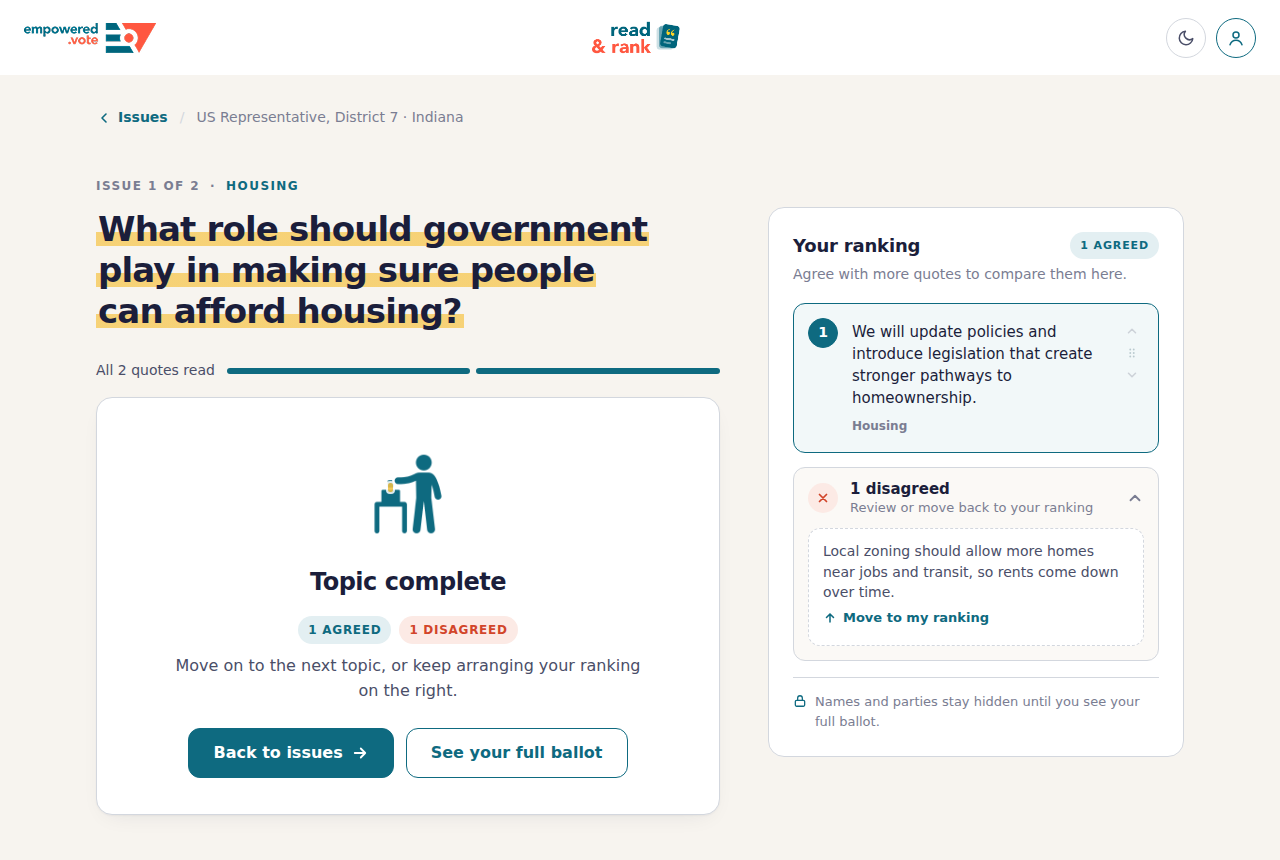
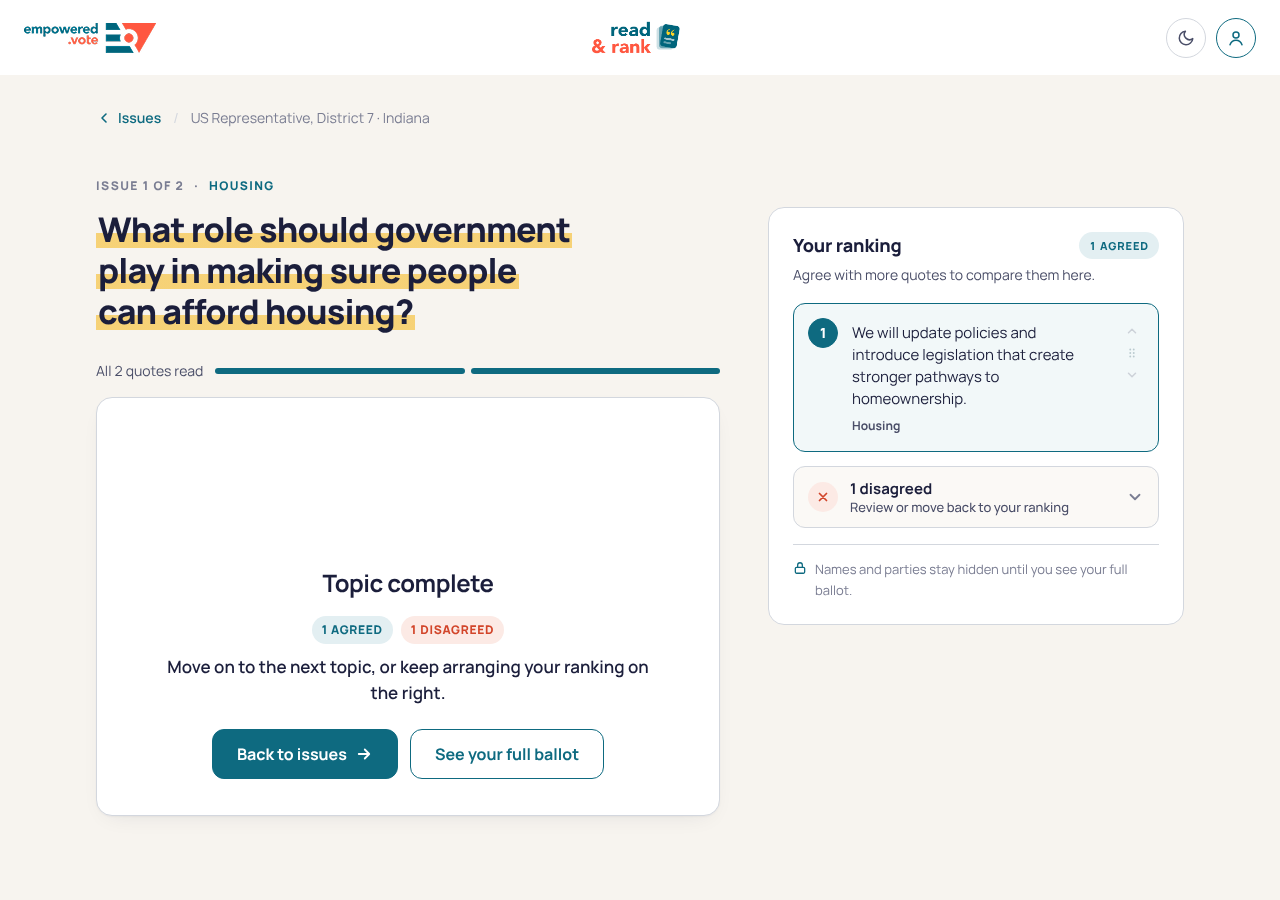
docs: darken Topic complete message and ranking panel helper text
Claude-Session: https://claude.ai/code/session_01DwfCu4GsxXBrSLCryEySUF

diff --git a/docs/design/readrank-ux-redesign/prototype/index.html b/docs/design/readrank-ux-redesign/prototype/index.html
@@ -712,7 +712,7 @@
   #s-read .done-card { padding: 36px; text-align: center; display: grid; justify-items: center; gap: 10px; }
   #s-read .done-icon { width: 56px; height: 56px; border-radius: 50%; display: grid; place-items: center; background: var(--teal-tint); color: var(--teal); }
   #s-read .done-card h2 { margin: 8px 0 0; font-size: 24px; letter-spacing: -.02em; }
-  #s-read .done-card p { margin: 0; color: var(--ink-2); max-width: 30em; }
+  #s-read .done-card p { margin: 0; color: var(--ink); font-size: 17px; font-weight: 600; line-height: 1.5; max-width: 30em; }
   #s-read .done-actions { margin-top: 14px; display: flex; flex-wrap: wrap; justify-content: center; gap: 12px; }
 
   #s-read .btn {
@@ -743,7 +743,7 @@
     padding: 5px 10px; border-radius: 999px; color: var(--teal); background: var(--teal-tint);
     font-variant-numeric: tabular-nums; white-space: nowrap;
   }
-  #s-read .rank .sub { margin: 4px 0 0; font-size: 14px; color: var(--ink-3); }
+  #s-read .rank .sub { margin: 4px 0 0; font-size: 14px; color: var(--ink-2); }
   #s-read .empty {
     margin-top: 18px; padding: 26px 20px; border-radius: 12px;
     border: 1.5px dashed var(--line); text-align: center; color: var(--ink-3); font-size: 14px;
@@ -770,7 +770,7 @@
   }
   #s-read .rank-list li:first-child .pos { background: var(--teal); border-color: var(--teal); color: var(--on-teal); }
   #s-read .rank-text { margin: 4px 0 0; font-size: 15px; line-height: 1.45; }
-  #s-read .rank-tag { display: inline-block; margin-top: 8px; font-size: 12px; font-weight: 700; color: var(--ink-3); }
+  #s-read .rank-tag { display: inline-block; margin-top: 8px; font-size: 12px; font-weight: 700; color: var(--ink-2); }
   #s-read .order { display: grid; gap: 2px; justify-items: center; }
   #s-read .order button {
     width: 28px; height: 26px; border-radius: 8px; border: 0; background: transparent; color: var(--ink-3);
@@ -790,7 +790,7 @@
   #s-read .tray summary::-webkit-details-marker { display: none; }
   #s-read .tray-icon { width: 30px; height: 30px; border-radius: 50%; display: grid; place-items: center; background: var(--coral-tint); color: var(--coral-strong); }
   #s-read .tray-title { font-weight: 700; font-size: 15px; line-height: 1.3; }
-  #s-read .tray-title small { display: block; font-weight: 500; font-size: 13px; color: var(--ink-3); }
+  #s-read .tray-title small { display: block; font-weight: 500; font-size: 13px; color: var(--ink-2); }
   #s-read .chev { color: var(--ink-3); transition: transform .2s ease; }
   #s-read .tray[open] .chev { transform: rotate(180deg); }
   #s-read .tray-list { list-style: none; margin: 0; padding: 0 14px 14px; display: grid; gap: 8px; }

diff --git a/docs/design/readrank-ux-redesign/prototype/read.html b/docs/design/readrank-ux-redesign/prototype/read.html
@@ -199,7 +199,7 @@
   .done-card { padding: 36px; text-align: center; display: grid; justify-items: center; gap: 10px; }
   .done-icon { width: 56px; height: 56px; border-radius: 50%; display: grid; place-items: center; background: var(--teal-tint); color: var(--teal); }
   .done-card h2 { margin: 8px 0 0; font-size: 24px; letter-spacing: -.02em; }
-  .done-card p { margin: 0; color: var(--ink-2); max-width: 30em; }
+  .done-card p { margin: 0; color: var(--ink); font-size: 17px; font-weight: 600; line-height: 1.5; max-width: 30em; }
   .done-actions { margin-top: 14px; display: flex; flex-wrap: wrap; justify-content: center; gap: 12px; }
 
   .btn {
@@ -230,7 +230,7 @@
     padding: 5px 10px; border-radius: 999px; color: var(--teal); background: var(--teal-tint);
     font-variant-numeric: tabular-nums; white-space: nowrap;
   }
-  .rank .sub { margin: 4px 0 0; font-size: 14px; color: var(--ink-3); }
+  .rank .sub { margin: 4px 0 0; font-size: 14px; color: var(--ink-2); }
   .empty {
     margin-top: 18px; padding: 26px 20px; border-radius: 12px;
     border: 1.5px dashed var(--line); text-align: center; color: var(--ink-3); font-size: 14px;
@@ -257,7 +257,7 @@
   }
   .rank-list li:first-child .pos { background: var(--teal); border-color: var(--teal); color: var(--on-teal); }
   .rank-text { margin: 4px 0 0; font-size: 15px; line-height: 1.45; }
-  .rank-tag { display: inline-block; margin-top: 8px; font-size: 12px; font-weight: 700; color: var(--ink-3); }
+  .rank-tag { display: inline-block; margin-top: 8px; font-size: 12px; font-weight: 700; color: var(--ink-2); }
   .order { display: grid; gap: 2px; justify-items: center; }
   .order button {
     width: 28px; height: 26px; border-radius: 8px; border: 0; background: transparent; color: var(--ink-3);
@@ -277,7 +277,7 @@
   .tray summary::-webkit-details-marker { display: none; }
   .tray-icon { width: 30px; height: 30px; border-radius: 50%; display: grid; place-items: center; background: var(--coral-tint); color: var(--coral-strong); }
   .tray-title { font-weight: 700; font-size: 15px; line-height: 1.3; }
-  .tray-title small { display: block; font-weight: 500; font-size: 13px; color: var(--ink-3); }
+  .tray-title small { display: block; font-weight: 500; font-size: 13px; color: var(--ink-2); }
   .chev { color: var(--ink-3); transition: transform .2s ease; }
   .tray[open] .chev { transform: rotate(180deg); }
   .tray-list { list-style: none; margin: 0; padding: 0 14px 14px; display: grid; gap: 8px; }
